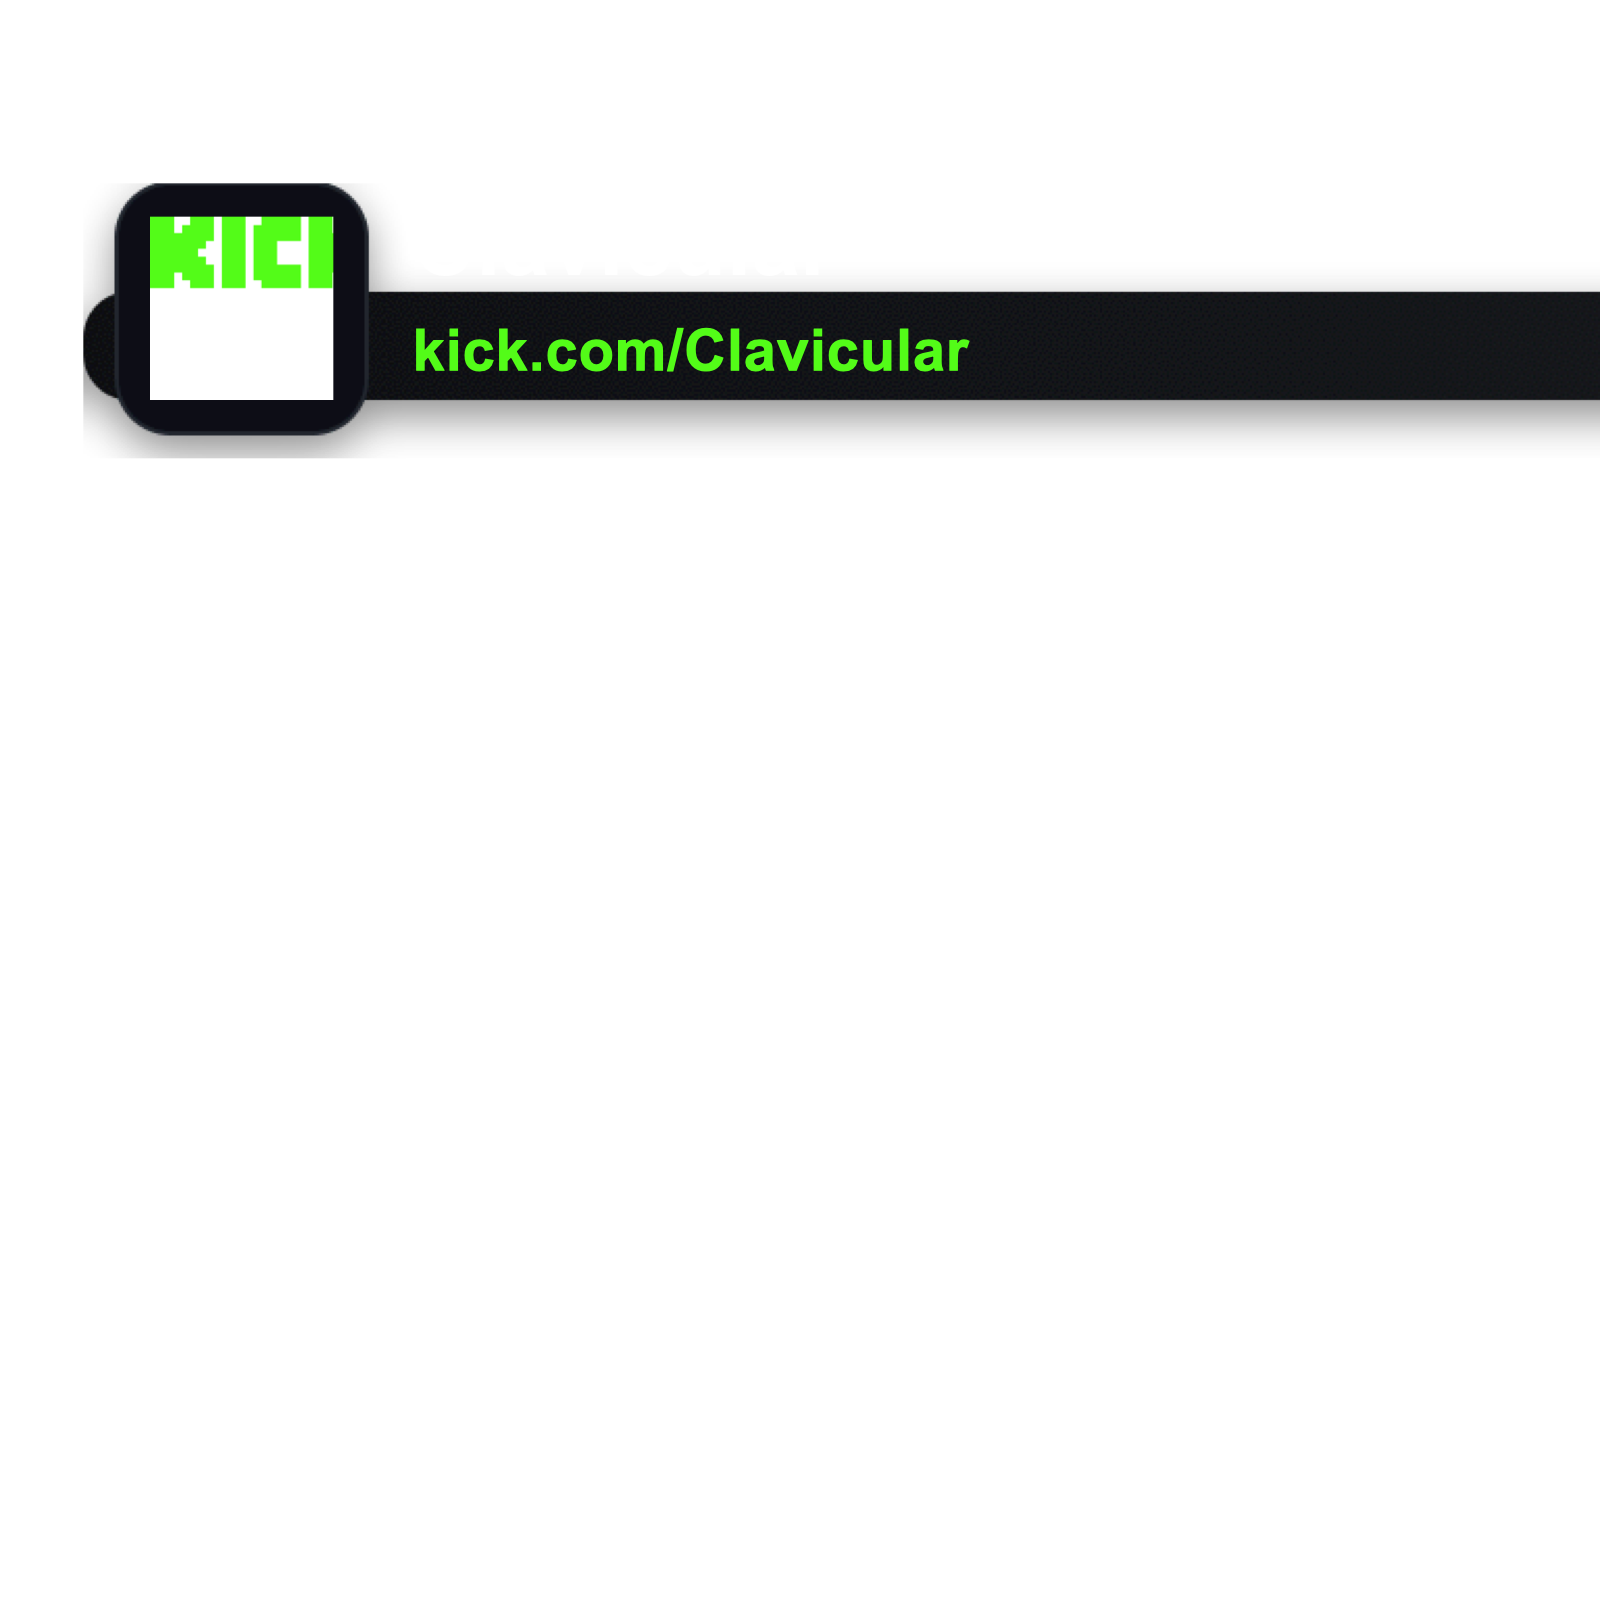
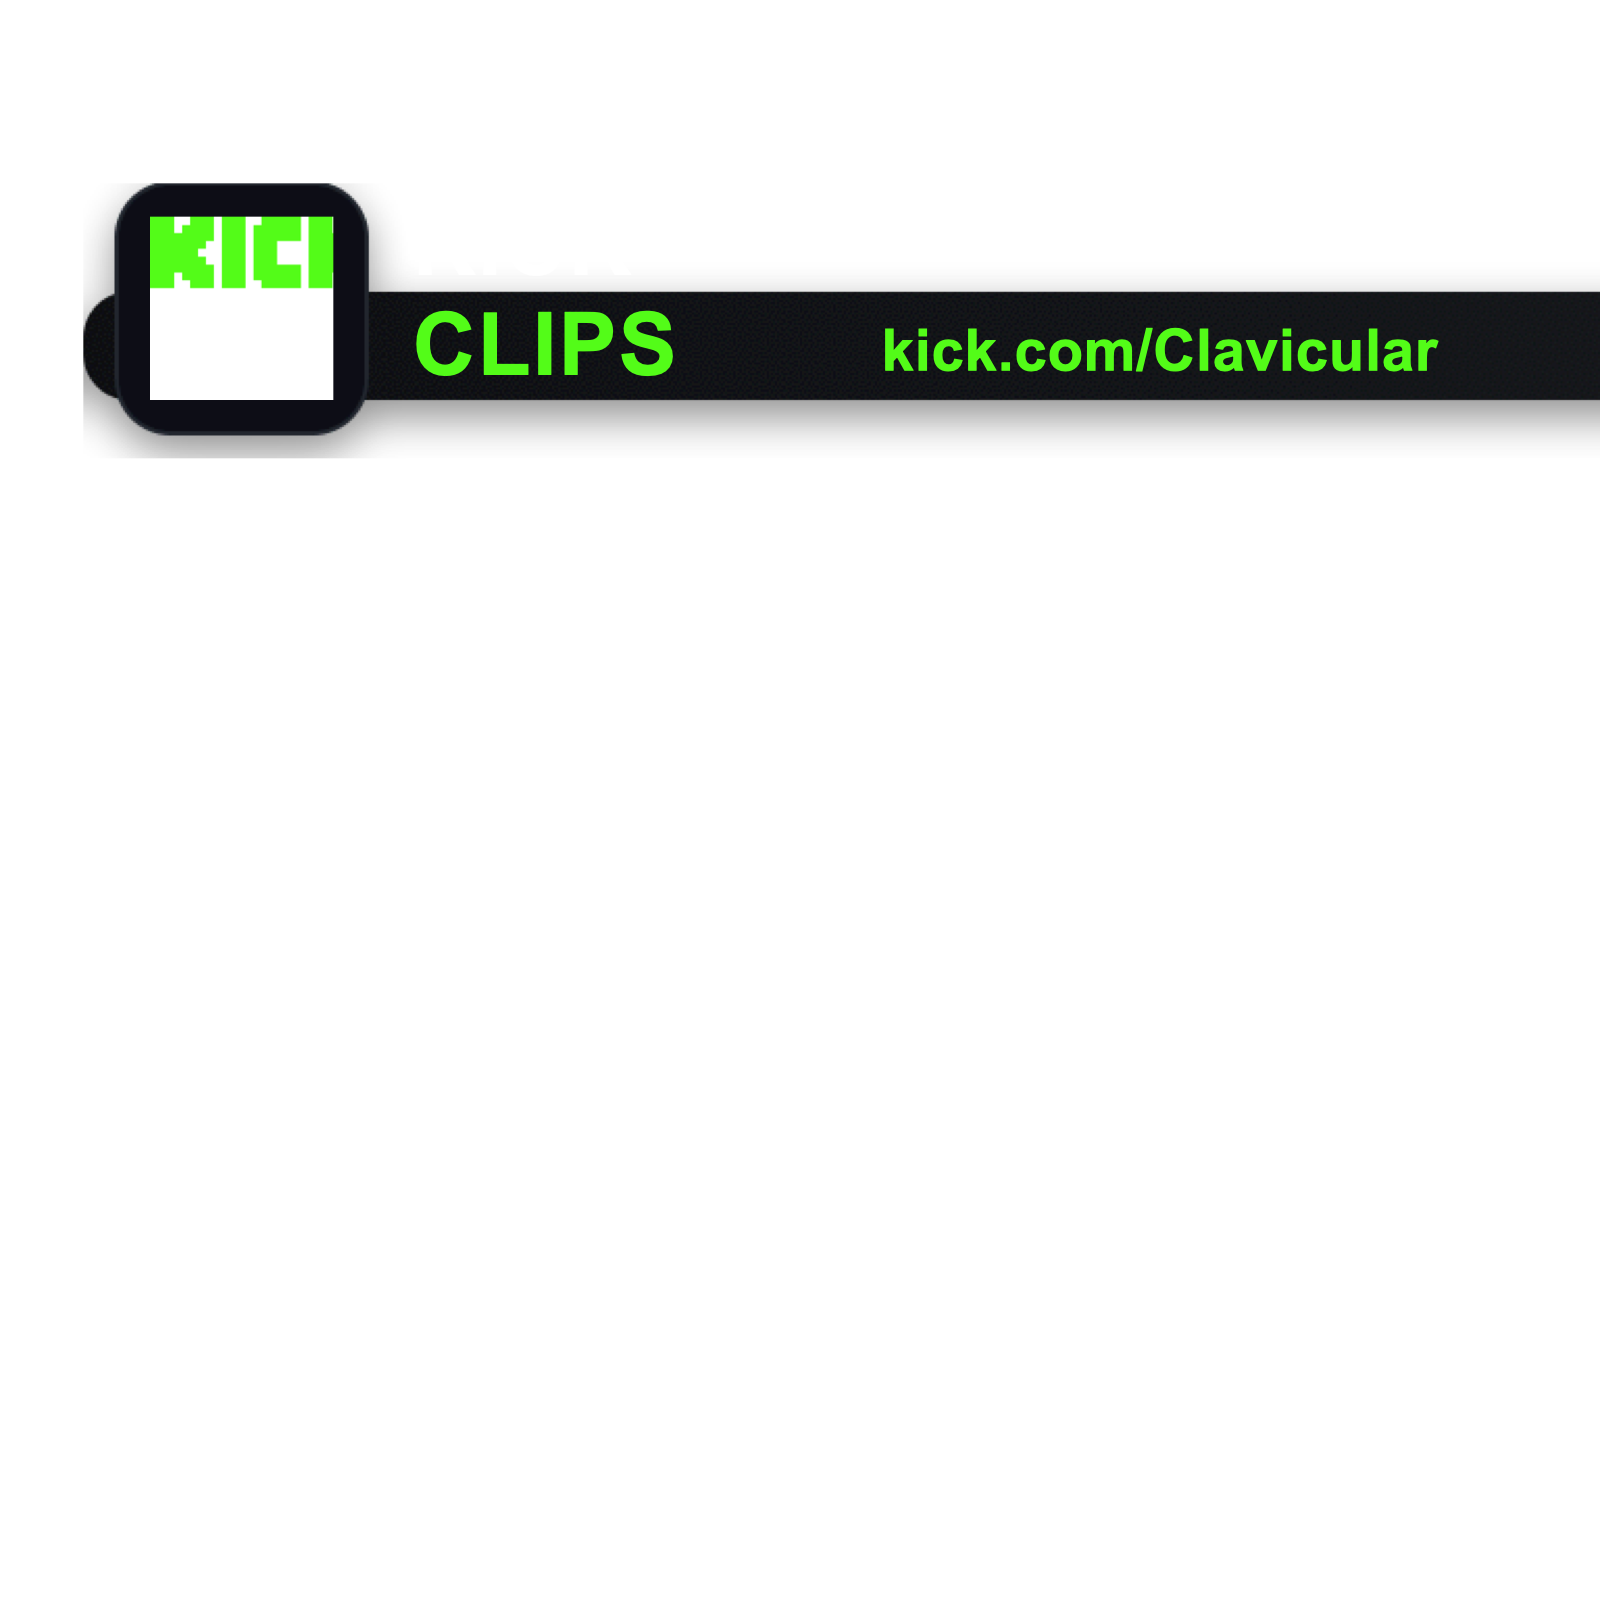
Update Kick lower third to Kick Clips layout

Changed region(s): [[0.25, 0.1875, 0.9062, 0.25]]

diff --git a/social-clip-os/templates/kick/generate_kick_lower_third.py b/social-clip-os/templates/kick/generate_kick_lower_third.py
@@ -13,9 +13,13 @@ LOGO_BOX_X = 56
 LOGO_BOX_Y = 88
 LOGO_BOX_W = 120
 LOGO_BOX_H = 120
-TEXT_X = 198
+KICK_TEXT_X = 198
+KICK_TEXT_Y = 132
+CLIPS_TEXT_X = 198
+CLIPS_TEXT_Y = 180
 HANDLE_Y = 132
 URL_Y = 178
+RIGHT_URL_X = 690
 
 
 def build_svg(handle: str, url_text: str, logo_path: str = "preview/kick-logo.svg.png") -> str:
@@ -46,8 +50,9 @@ def build_svg(handle: str, url_text: str, logo_path: str = "preview/kick-logo.sv
 
   <image href="{safe_logo}" x="72" y="104" width="88" height="88" preserveAspectRatio="xMidYMid meet"/>
 
-  <text x="{TEXT_X}" y="{HANDLE_Y}" fill="#FFFFFF" font-family="Arial, Helvetica, sans-serif" font-size="42" font-weight="700" letter-spacing="0.2">{safe_handle}</text>
-  <text x="{TEXT_X}" y="{URL_Y}" fill="#53FC18" font-family="Arial, Helvetica, sans-serif" font-size="28" font-weight="700" letter-spacing="0.3">{safe_url}</text>
+  <text x="{KICK_TEXT_X}" y="{KICK_TEXT_Y}" fill="#FFFFFF" font-family="Arial, Helvetica, sans-serif" font-size="42" font-weight="800" letter-spacing="0.8">KICK</text>
+  <text x="{CLIPS_TEXT_X}" y="{CLIPS_TEXT_Y}" fill="#53FC18" font-family="Arial, Helvetica, sans-serif" font-size="42" font-weight="900" letter-spacing="0.8">CLIPS</text>
+  <text x="{RIGHT_URL_X}" y="{URL_Y}" fill="#53FC18" font-family="Arial, Helvetica, sans-serif" font-size="28" font-weight="700" text-anchor="end" letter-spacing="0.3">{safe_url}</text>
 </svg>
 '''
 

diff --git a/social-clip-os/templates/kick/README.md b/social-clip-os/templates/kick/README.md
@@ -40,6 +40,6 @@ If the clip is not 1080px wide, scale the overlay to match the video width first
 
 ## Notes
 - The template is designed for bottom placement.
-- The handle line is white.
-- The `kick.com/<handle>` line is Kick green.
+- Layout is: Kick logo | KICK CLIPS | `kick.com/<handle>`.
+- `KICK` is white, `CLIPS` is Kick green, and the URL is Kick green.
 - Future clips can reuse the same style and just swap the handle/URL.
